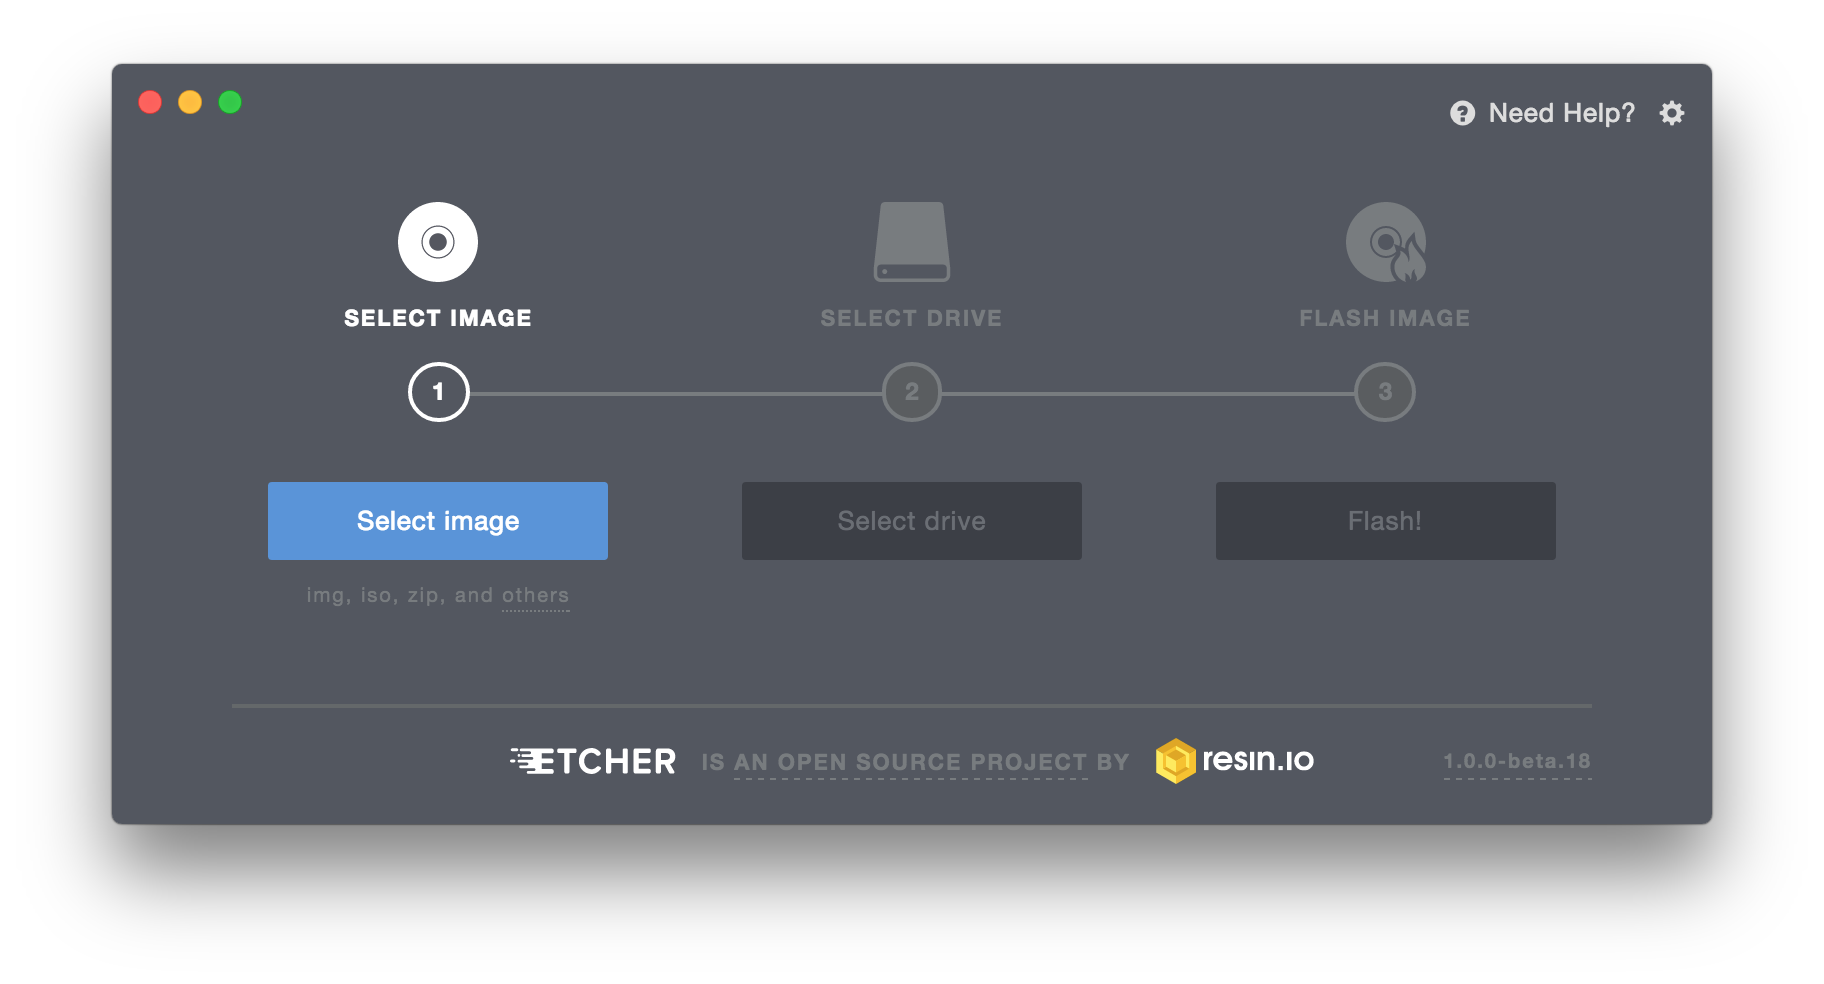
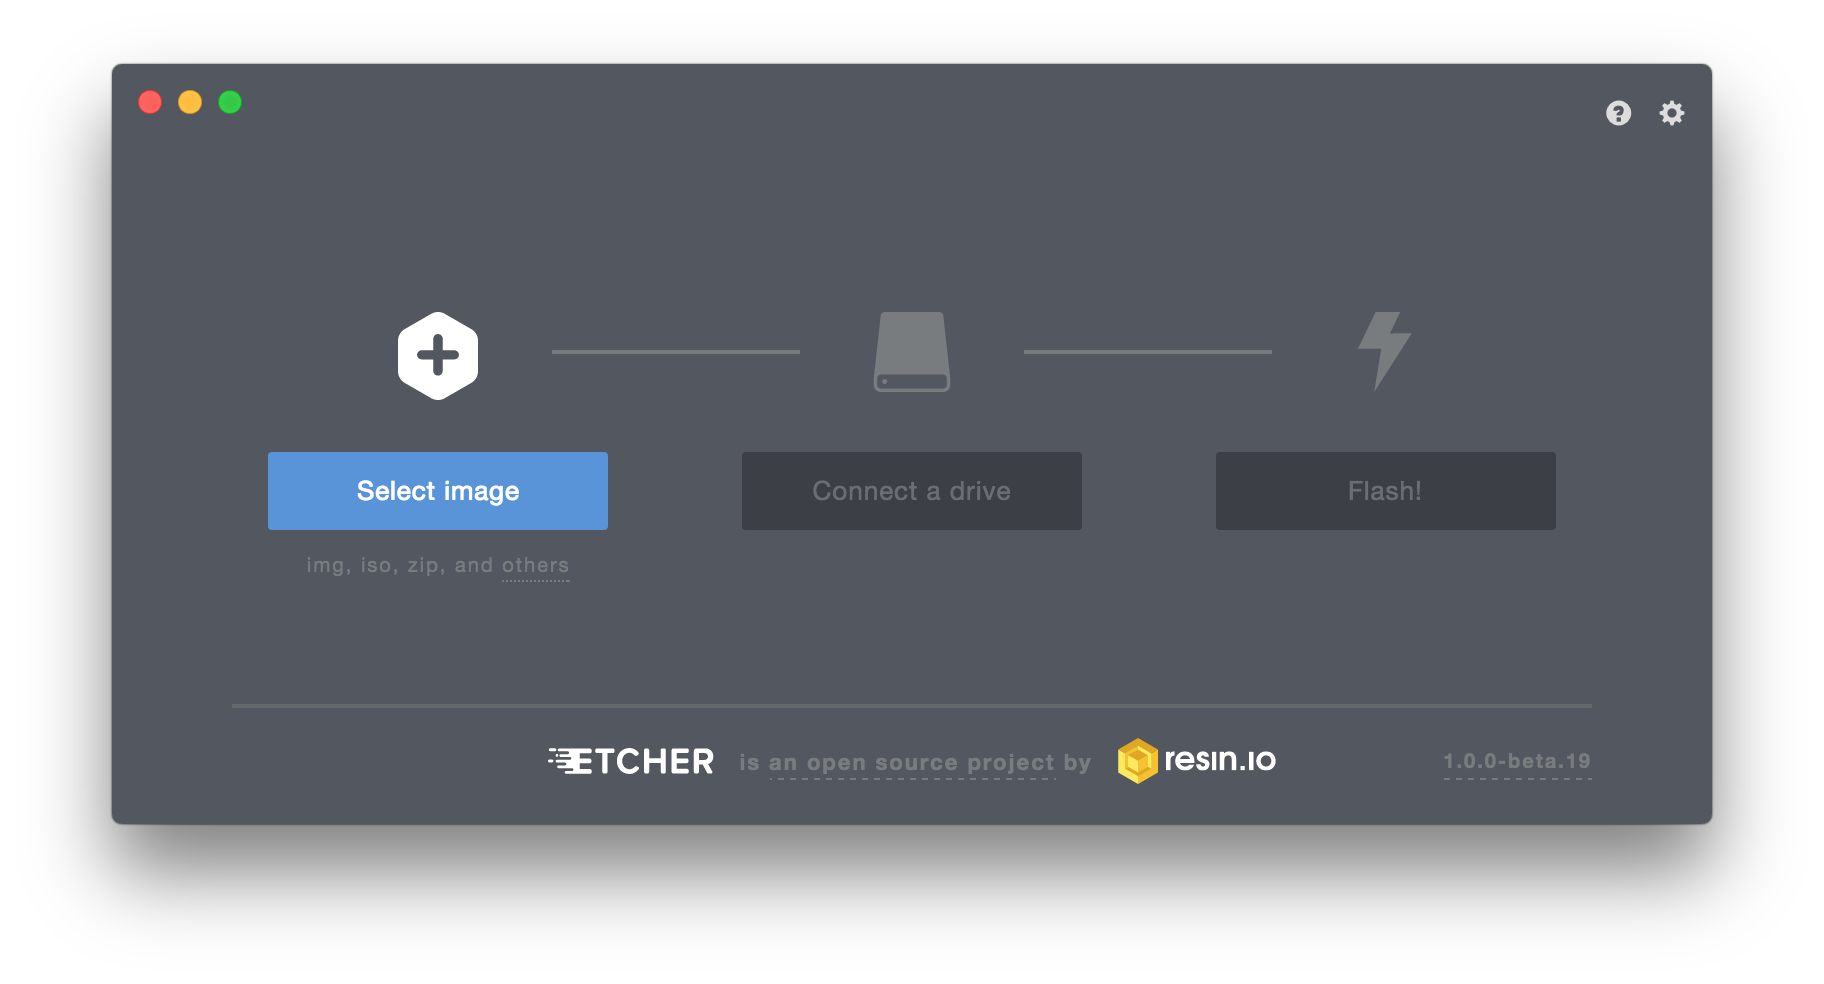
v1.0.0-beta.19

diff --git a/CHANGELOG.md b/CHANGELOG.md
@@ -3,6 +3,36 @@
 All notable changes to this project will be documented in this file.
 This project adheres to [Semantic Versioning](http://semver.org/).
 
+## v1.0.0-beta.19 - 2017-02-24
+
+### Features
+
+- Show warning when user tries to flash a Windows image
+- Update the image step icon with an hexagonal "plus" icon.
+- Update main page design to its new style.
+- Swap the order of the drive and image selection steps.
+
+### Fixes
+
+- Fix `transformRequest` error at startup when not connected to the internet, or when on an unstable connection.
+- Prevent flashing the drive where the source image is located.
+- Fix text overflowing on tooltips.
+- Don't ignore errors coming from the Windows drive detection script.
+- Omit empty SD Card readers in the drive selector on Windows.
+- Fix "Error: Command Failed" error when unmounting on Windows.
+- Fix duplicate error messages on some errors.
+- Fix 'MySQL' is not recognised as an internal or external command error on Windows.
+- Ignore `stderr` output from drive detection scripts if they exit with code zero.
+
+### Misc
+
+- Improve validation error message.
+- Emit an analytics event on `ENOSPC`.
+- Normalize button text casing.
+- Don't auto select system drives in unsafe mode.
+- Use a OS dialog to show the "exit while flashing" warning.
+- Capitalize every text throughout the application.
+
 ## v1.0.0-beta.18 - 2017-01-16
 
 ### Features
